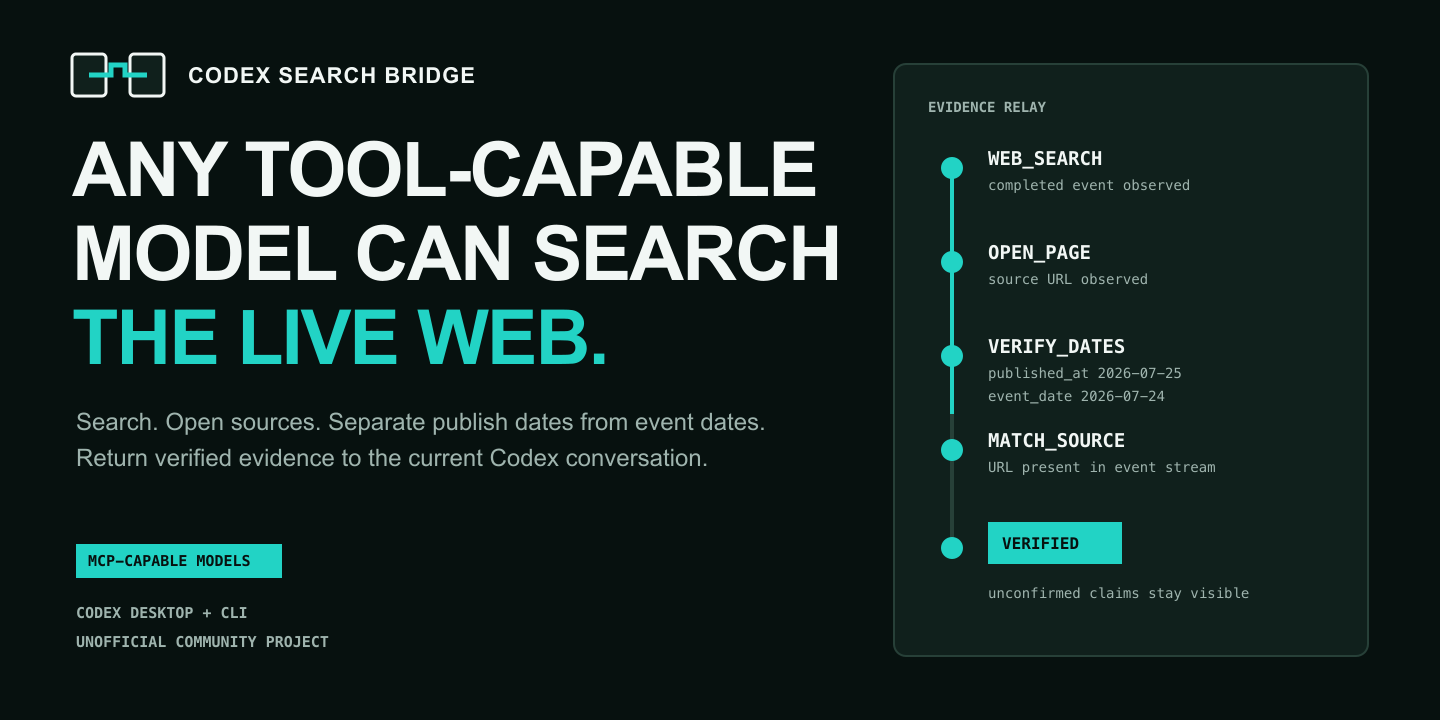
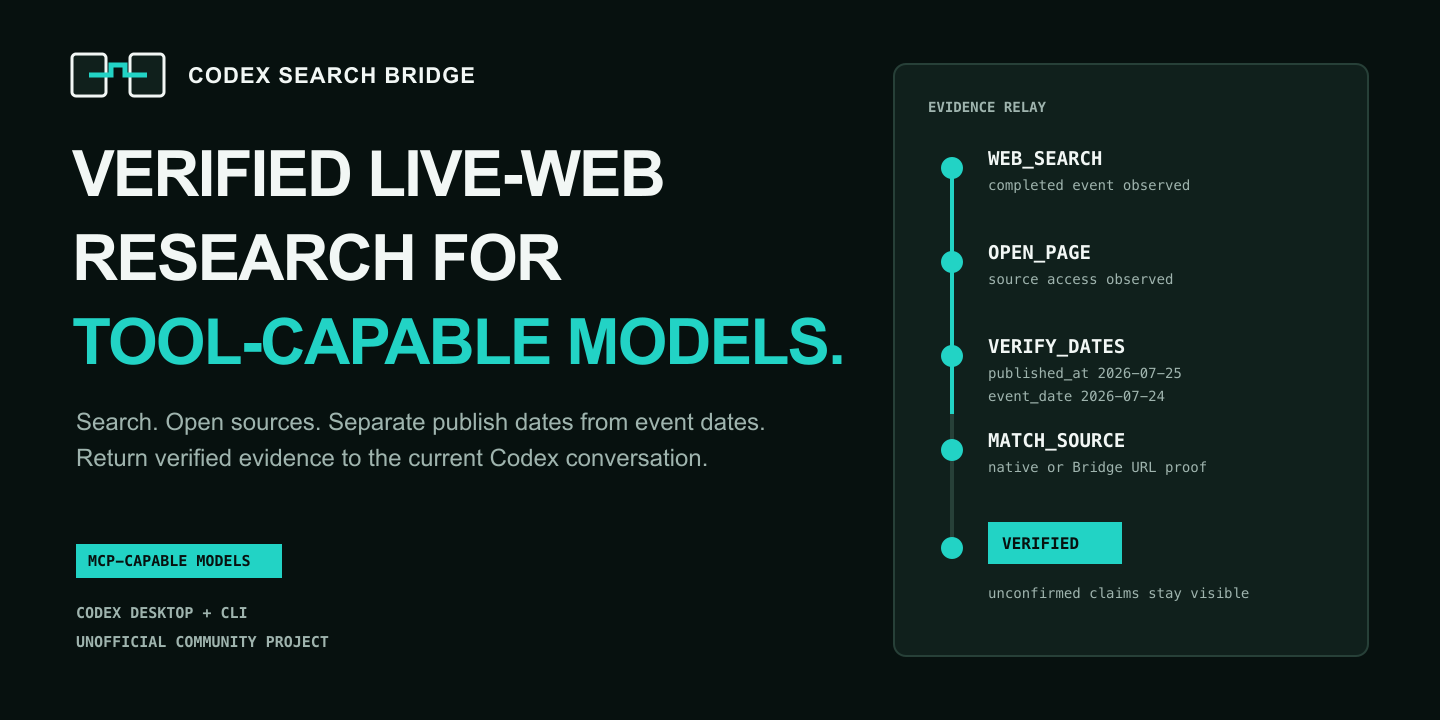
docs: align launch visuals with verified claims

diff --git a/tests/assets.test.ts b/tests/assets.test.ts
@@ -30,7 +30,7 @@ describe("promotional assets", () => {
     const svg = await asset("social-card.svg");
     expect(svg).toContain("UNOFFICIAL COMMUNITY PROJECT");
     expect(svg).toContain("TOOL-CAPABLE MODEL");
-    expect(svg).toContain("LIVE WEB");
+    expect(svg).toContain("VERIFIED LIVE-WEB");
   });
 
   it("renders an exact 1200 by 630 social PNG", async () => {

diff --git a/docs/superpowers/plans/2026-07-25-codex-search-bridge.md b/docs/superpowers/plans/2026-07-25-codex-search-bridge.md
@@ -537,7 +537,7 @@ git commit -m "docs: add visual identity and launch kit"
 - Modify: `README.md`
 - Modify: `README.zh-CN.md`
 
-- [ ] **Step 1: Run the full clean verification suite**
+- [x] **Step 1: Run the full clean verification suite**
 
 Run:
 
@@ -549,15 +549,15 @@ git status --short
 
 Expected: all tests/build checks pass and the only changes are intentional verification artifacts created after this command.
 
-- [ ] **Step 2: Run the real doctor**
+- [x] **Step 2: Run the real doctor**
 
 Run the bundled server's `--doctor` mode with the authenticated Codex 0.145.0 installation. Capture only sanitized status, versions, event counts, timestamps, and error codes.
 
-- [ ] **Step 3: Run a time-sensitive real research query**
+- [x] **Step 3: Run a time-sensitive real research query**
 
 Choose a public event from the last 24 hours. Require `standard` depth. Save the structured result and verify manually that source URLs open, publication dates exist when claimed, event dates are independently supported, and unconfirmed facts are not presented as confirmed.
 
-- [ ] **Step 4: Verify JSONL evidence independently**
+- [x] **Step 4: Verify JSONL evidence independently**
 
 Confirm at least one live `web_search` event, at least one attributable page open, and source URL intersection. Record exact `codex_open_page_events` and `bridge_fetch_events` counts plus retrieval time in the verification document.
 
@@ -578,7 +578,7 @@ Run Codex CLI using one configured external model known to support MCP tools. As
 
 Observed: `qwen3:4b-instruct` and `qwen3.5:4b` were negative; a `qwen3.5:9b` probe was stopped because of unacceptable host pressure before an outcome. Public documentation explicitly claims no external-model end-to-end success for v0.1.0 and preserves the detailed negative evidence. Per this step's fallback, publication continues without a positive model claim.
 
-- [ ] **Step 6: Re-run checks and commit evidence**
+- [x] **Step 6: Re-run checks and commit evidence**
 
 Run: `npm run check`
 
@@ -597,36 +597,44 @@ git commit -m "test: document verified live-search workflow"
 - Modify if necessary: repository metadata and release notes
 - Create through GitHub: public repository, Actions runs, v0.1.0 release
 
-- [ ] **Step 1: Audit every acceptance criterion against authoritative evidence**
+- [x] **Step 1: Audit every acceptance criterion against authoritative evidence**
 
 Create a checklist from section 16 of the design specification. For each item, link a test, command output, installed plugin state, verification document, rendered asset, or public GitHub state. Any unsupported item remains incomplete and must be fixed or explicitly narrowed in public compatibility claims.
 
-- [ ] **Step 2: Verify GitHub authentication and repository-name availability**
+- [x] **Step 2: Verify GitHub authentication and repository-name availability**
 
 Run: `gh auth status` and `gh repo view <authenticated-owner>/codex-search-bridge`.
 
 Expected: authenticated account identified. If the repository does not exist, create it; if it exists and is unrelated, stop before overwriting and use `codex-web-search-bridge` only after confirming the collision.
 
-- [ ] **Step 3: Create the public repository and push main**
+- [x] **Step 3: Create the public repository and push main**
 
 Use non-interactive GitHub CLI with description `Give any tool-capable model in Codex verified live-web research.` Add topics `codex`, `mcp`, `web-search`, `open-source`, `local-llm`, and `ai-agents`. Set the repository homepage only if a real project page exists.
 
-- [ ] **Step 4: Wait for and inspect GitHub Actions**
+- [x] **Step 4: Wait for and inspect GitHub Actions**
 
 Use `gh run list` and `gh run watch`. If any matrix job fails, inspect logs, reproduce locally when possible, fix, recommit, and push. Do not treat a partial green matrix as success.
 
-- [ ] **Step 5: Tag and publish v0.1.0**
+Final release-commit CI: [run 30145306223](https://github.com/Zhao73/codex-search-bridge/actions/runs/30145306223), with all six Windows/macOS/Ubuntu on Node 20/22 jobs passing.
+
+- [x] **Step 5: Tag and publish v0.1.0**
 
 After main CI is fully green, create signed or annotated tag `v0.1.0`, push it, verify the release workflow, and publish release notes containing install commands, verified platforms, known limitations, checksums, and the community-project notice.
 
-- [ ] **Step 6: Verify the public repository as a new user would**
+Published release: [v0.1.0](https://github.com/Zhao73/codex-search-bridge/releases/tag/v0.1.0). Release workflow: [run 30145365205](https://github.com/Zhao73/codex-search-bridge/actions/runs/30145365205).
+
+- [x] **Step 6: Verify the public repository as a new user would**
 
 Open the public GitHub page, inspect rendered README/hero/social preview, clone into a fresh temporary directory, follow the published installation steps, run `doctor`, and ensure the release artifact matches its checksum. Check that no secrets, local absolute paths, private emails in docs, or unredacted logs are present.
 
-- [ ] **Step 7: Publish the prepared launch text and report exact state**
+Verified from a fresh public clone and a fresh unauthenticated `CODEX_HOME`: marketplace add/install succeeded, the installed bundle listed `doctor` and `research_web`, unauthenticated remediation was correct, release archives matched published checksums, and the public README plus social preview rendered successfully.
+
+- [x] **Step 7: Publish the prepared launch text and report exact state**
 
 The repository and GitHub release are authorized external writes. Publishing to third-party communities is not implied by “GitHub 公开发布”; keep Hacker News/Reddit/other posts as ready-to-use drafts unless separately authorized. Report the repository URL, release URL, CI result, live-search evidence, verified platforms, unverified external-model/platform items, and exact commit/tag.
 
-- [ ] **Step 8: Mark the persistent goal complete only after the audit passes**
+Completed within the authorized GitHub scope. GitHub repository metadata, topics, README, release notes, release assets, and social preview are public. Third-party launch drafts remain unposted.
+
+- [x] **Step 8: Mark the persistent goal complete only after the audit passes**
 
 Run a final `git status`, test suite, GitHub Actions check, public clone smoke test, and requirement-by-requirement audit. Call `update_goal(status="complete")` only if coding, tests, visual promotion, public repository, and release are all proven complete.

diff --git a/docs/verification/README.md b/docs/verification/README.md
@@ -4,6 +4,7 @@ These records separate deterministic tests, authenticated live runs, CI coverage
 
 - [2026-07-25 macOS live verification](2026-07-25-macos.md)
 - [Sanitized structured result](sample-result.json)
-- [GitHub Actions run 30145224028](https://github.com/Zhao73/codex-search-bridge/actions/runs/30145224028): Windows, macOS, and Ubuntu on Node 20/22 all passed on 2026-07-25.
+- [Release-commit CI run 30145306223](https://github.com/Zhao73/codex-search-bridge/actions/runs/30145306223): Windows, macOS, and Ubuntu on Node 20/22 all passed on 2026-07-25.
+- [v0.1.0 release run 30145365205](https://github.com/Zhao73/codex-search-bridge/actions/runs/30145365205): clean install, audit, distribution consistency, archive generation, checksums, and GitHub Release publication all passed.
 
 No credential, raw environment, home path, or private prompt context is stored here. A recorded result is evidence for the named version, platform, time, and query only; it is not a permanent claim about changing external facts.

diff --git a/docs/verification/2026-07-25-macos.md b/docs/verification/2026-07-25-macos.md
@@ -15,6 +15,12 @@
 
 The authenticated doctor completed with `status: healthy`. It observed a native live search event, valid Structured Outputs, and a successful restricted page open. The final implementation also requires a content-audit pass whenever restricted fetch evidence is used.
 
+## Released-code doctor
+
+After `v0.1.0` was public, the released code was checked again with authenticated Codex CLI 0.145.0. At `2026-07-25T05:16:59.544Z`, it returned `status: healthy`, Node.js `v24.14.0`, `web_search_events: 2`, `opened_page_events: 1`, `codex_open_page_events: 0`, `bridge_fetch_events: 1`, `content_audit_passes: 1`, and `structured_output.valid: true`.
+
+A separate fresh unauthenticated marketplace install returned the expected sign-in remediation instead of claiming readiness. This proves the public package path and failure behavior without recording credentials.
+
 ## Time-sensitive regression query
 
 Question:
